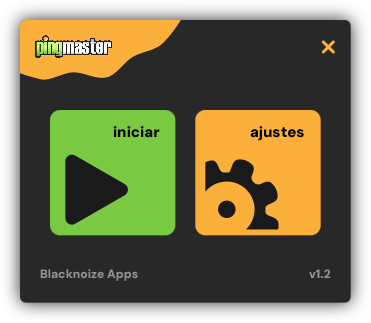
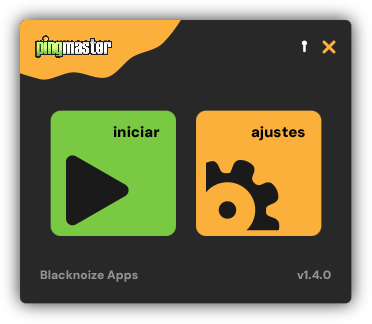
Refresh screenshots and add the About view

diff --git a/README.es.md b/README.es.md
@@ -5,9 +5,10 @@
 > Funciona en Windows y Linux.
 
 <p align="center">
-  <img src="docs/images/pingmaster-landing.png" alt="Vista principal de Pingmaster, con los botones de iniciar monitorización y ajustes" width="32%">
-  <img src="docs/images/pingmaster-timeout.png" alt="Vista de estadísticas de Pingmaster, con la gráfica de tiempos de respuesta" width="35%">
+  <img src="docs/images/pingmaster-landing.png" alt="Vista principal de Pingmaster, con los botones de iniciar monitorización y ajustes" width="24%">
+  <img src="docs/images/pingmaster-timeout.png" alt="Vista de estadísticas de Pingmaster, con las gráficas de tiempos de respuesta y de red" width="26%">
   <img src="docs/images/pingmaster-settings.png" alt="Vista de ajustes de Pingmaster: host, tipo de petición y tiempos" width="32%">
+  <img src="docs/images/pingmaster-about.png" alt="Vista Acerca de de Pingmaster: versión, enlaces y marca barnesinside" width="17%">
 </p>
 
 ## Qué hace

diff --git a/README.md b/README.md
@@ -7,9 +7,10 @@
 > **Documentación en español**: [README.es.md](README.es.md)
 
 <p align="center">
-  <img src="docs/images/pingmaster-landing.png" alt="Pingmaster landing view, with the start monitoring and settings buttons" width="32%">
-  <img src="docs/images/pingmaster-timeout.png" alt="Pingmaster statistics view, with the response time chart" width="35%">
+  <img src="docs/images/pingmaster-landing.png" alt="Pingmaster landing view, with the start monitoring and settings buttons" width="24%">
+  <img src="docs/images/pingmaster-timeout.png" alt="Pingmaster statistics view, with the response time and network charts" width="26%">
   <img src="docs/images/pingmaster-settings.png" alt="Pingmaster settings view: host, request type and timings" width="32%">
+  <img src="docs/images/pingmaster-about.png" alt="Pingmaster about view: version, links and barnesinside branding" width="17%">
 </p>
 
 ## What it does
